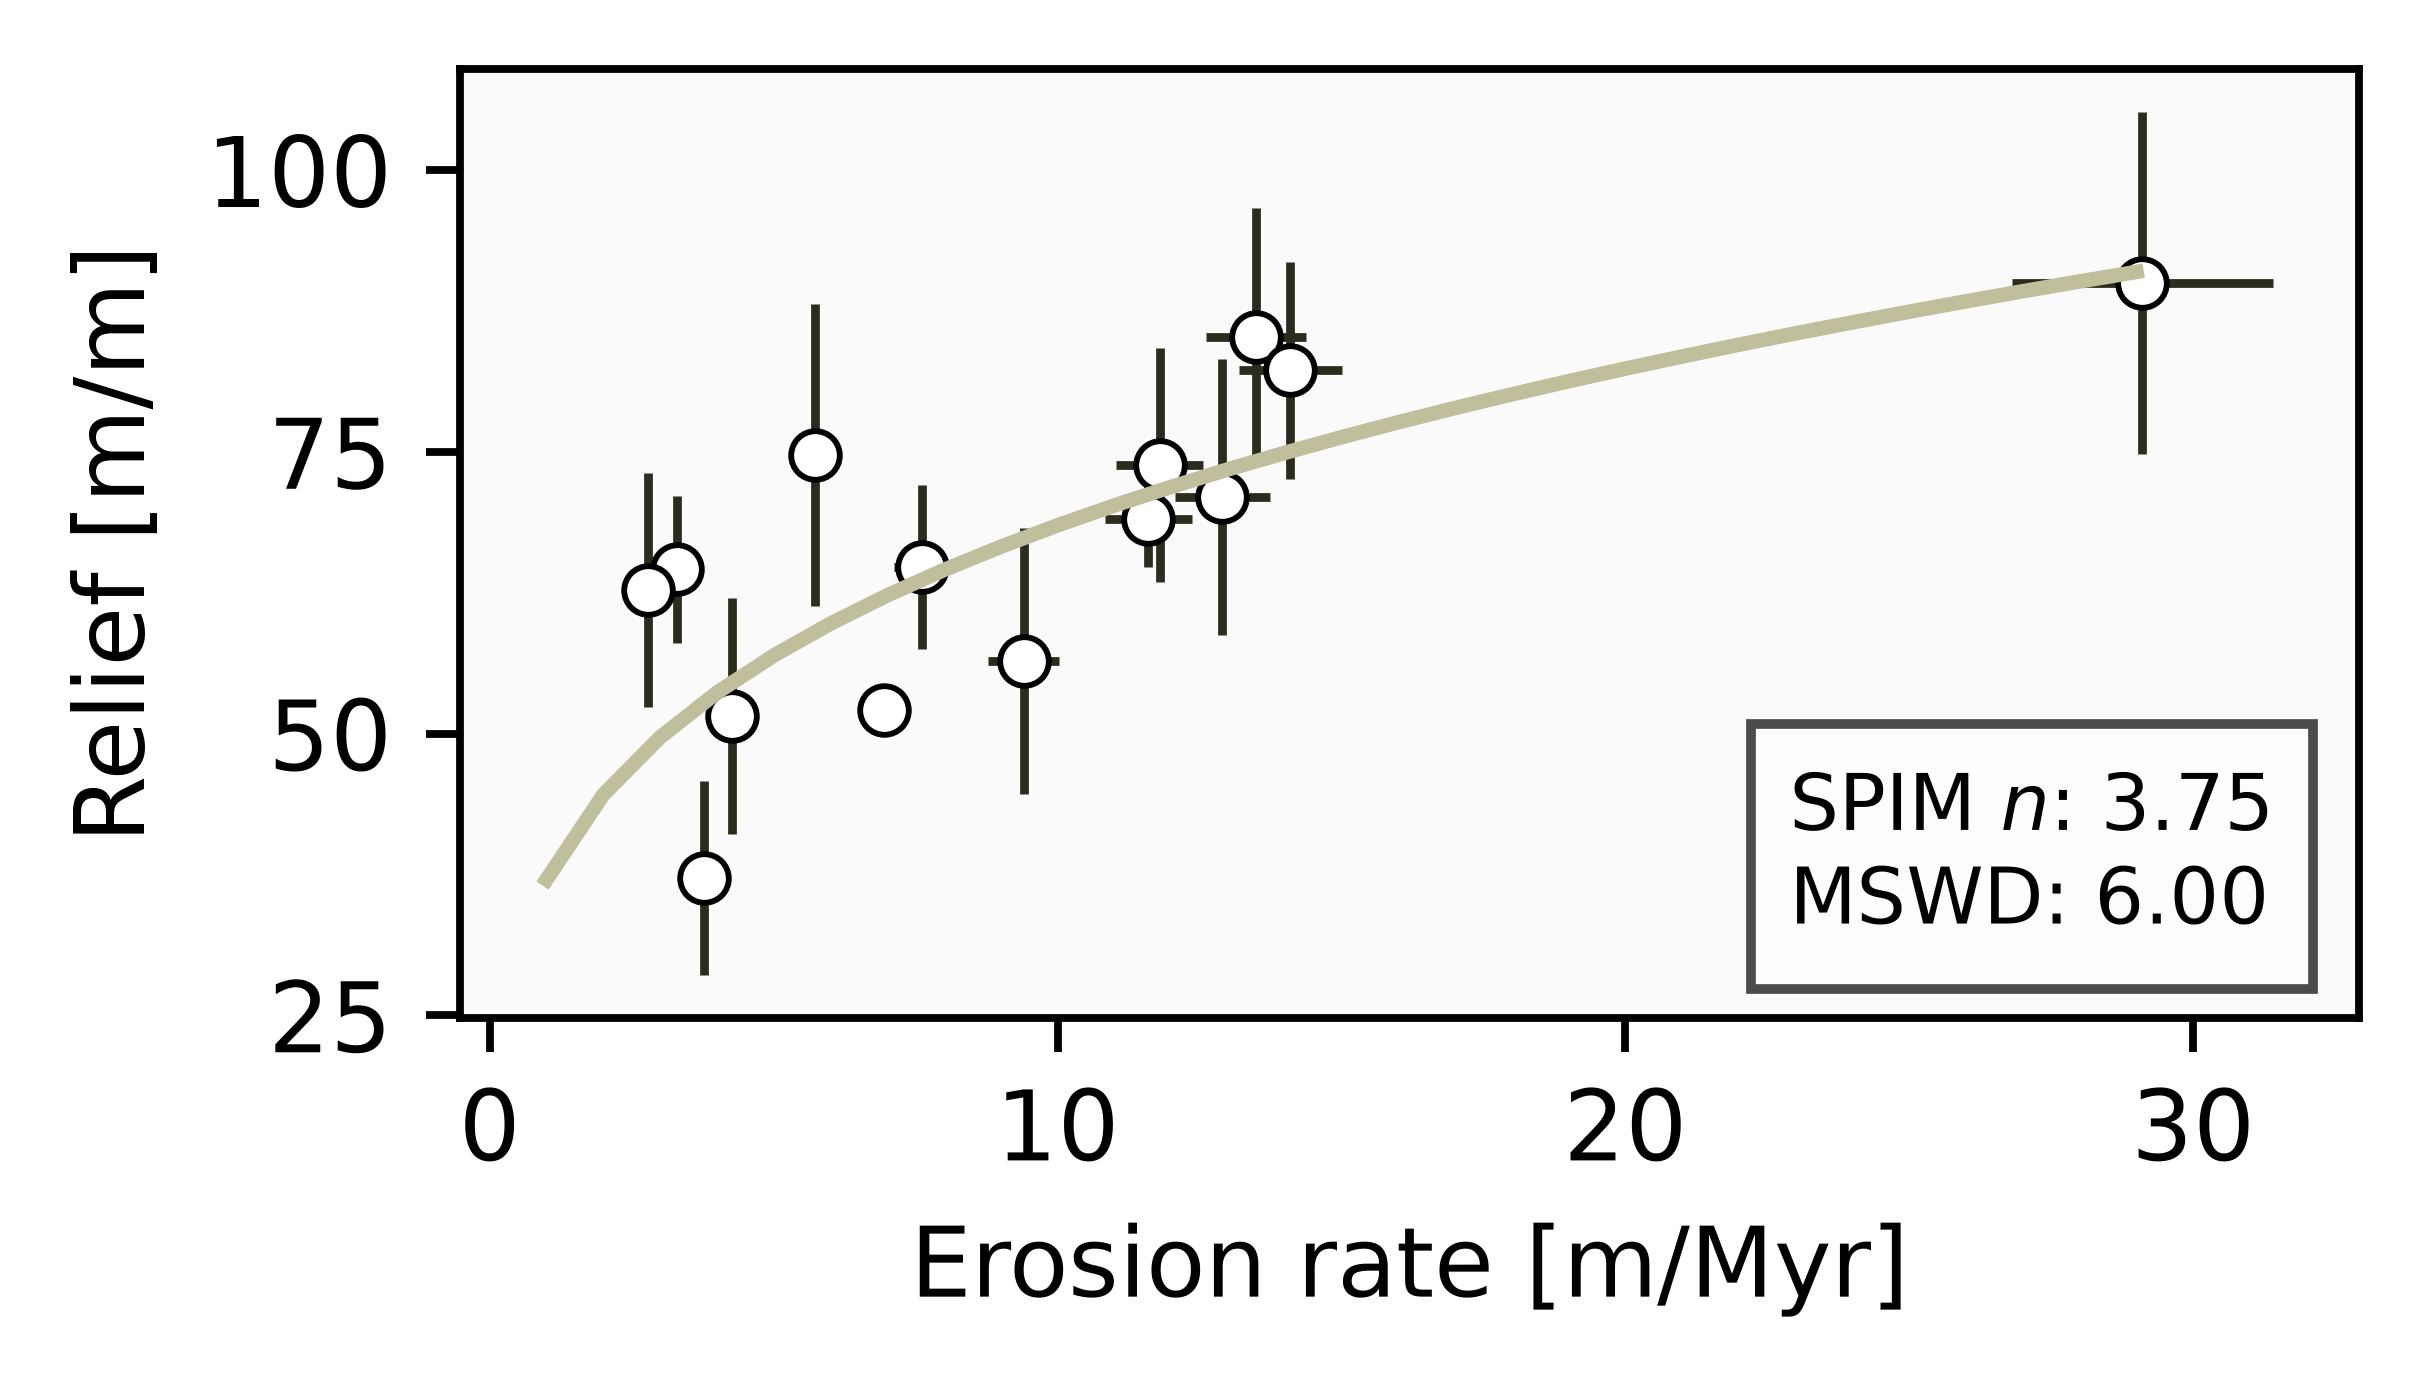
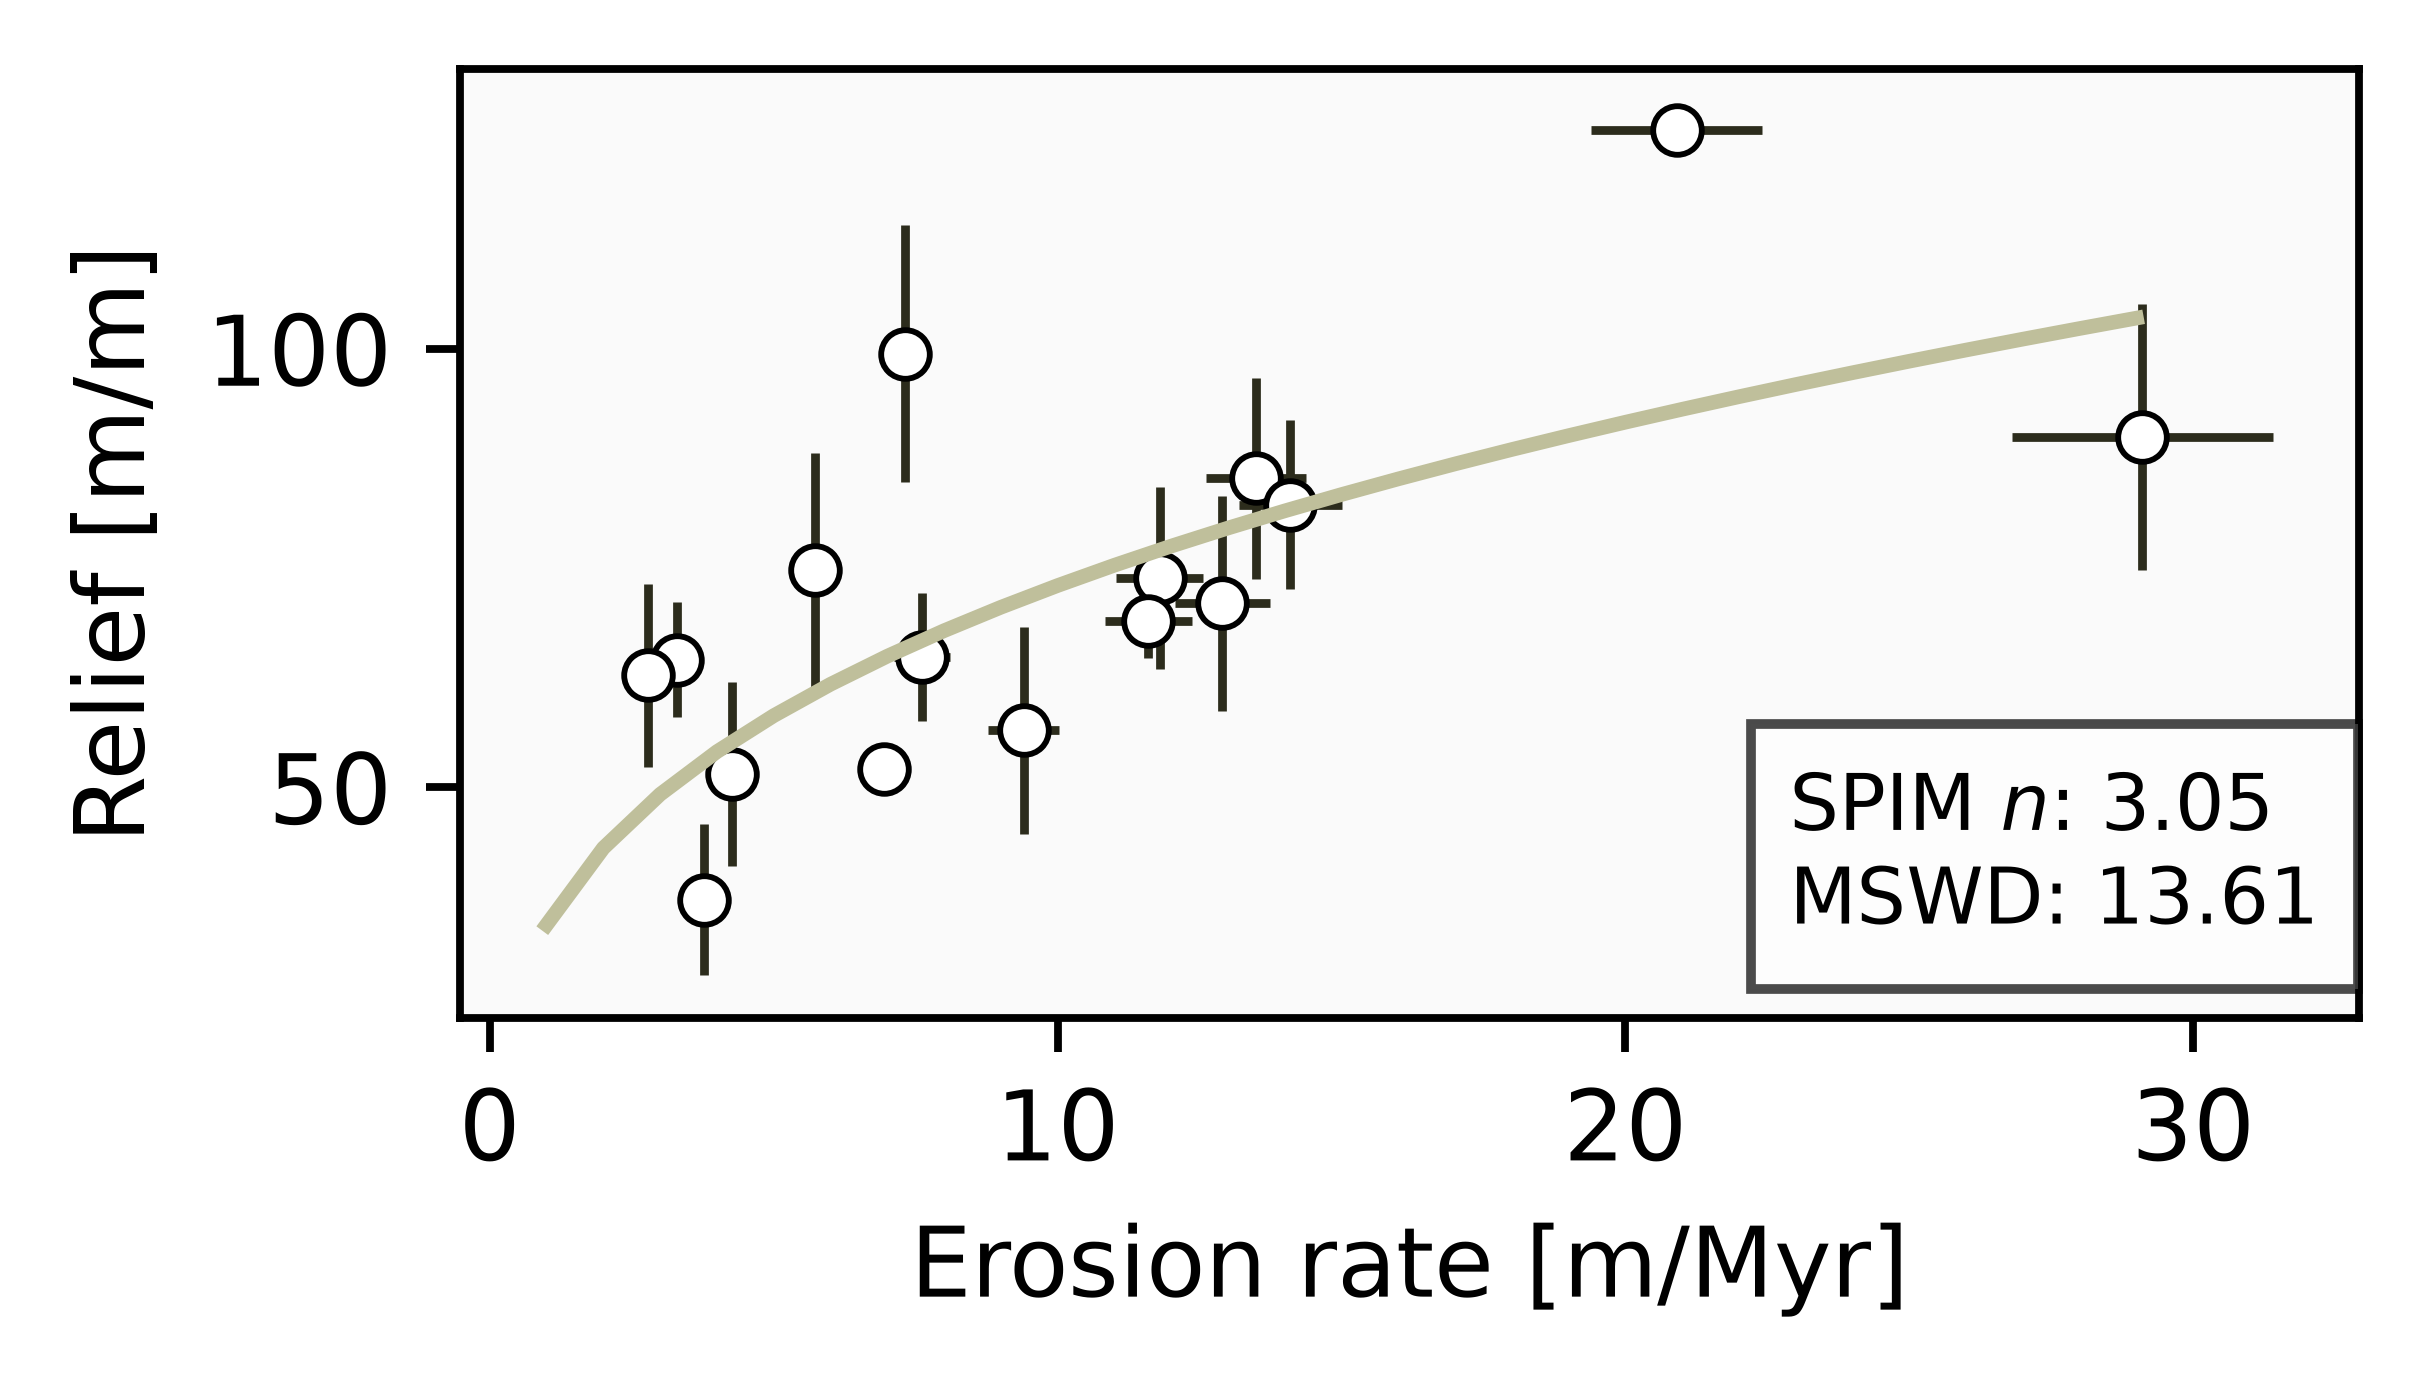
erosion

diff --git a/support/aux_functions/constant_steady_lines_model.py b/support/aux_functions/constant_steady_lines_model.py
@@ -173,15 +173,19 @@ class steady_state_model:
         best_dist = np.inf
 
         for time in times:
+            N_be_series= []
+            N_al_series = []
             for er in many_erosions:
                 N_be = float(c_p.burial_lines_be(er, 1.7, time))
                 N_al = float(c_p.burial_lines_al(er, 1.7, time))
+                N_be_series.append(N_be)
+                N_al_series.append(N_al)
 
-                # Euclidean distance in (N10, N26) space
+            for N_be,N_al in zip(N_be_series,N_al_series):
                 dist = np.sqrt((N_be - measured_N10) ** 2 + (N_al - measured_N26) ** 2)
-
                 if dist < best_dist:
                     best_time = time
+                    best_dist = dist
 
         return best_time
 

diff --git a/generate_figures/scripts/correction_erosion_rates.py b/generate_figures/scripts/correction_erosion_rates.py
@@ -9,8 +9,8 @@ all_sample_names,all_n10,all_n26,all_description_sample = load_dataset()
 for sample_id, measured_N10,measured_N26,description_sample in zip(all_sample_names,all_n10,all_n26,all_description_sample):
     if description_sample == "flood":
         time = bl.burial_decay_time(measured_N10,measured_N26)
-        print(time)
 
-    # corrected_N10 = measured_N10*(math.e**(decay_be*time))
-    # corrected_N26 = measured_N26*(math.e**(decay_al*time))
-#
+        corrected_N10 = measured_N10*(math.e**(decay_be*time))
+        corrected_N26 = measured_N26*(math.e**(decay_al*time))
+
+        print(sample_id,corrected_N10,corrected_N26,time)

diff --git a/generate_figures/scripts/Fig4_york_regression_erosion_rate_ksn_graph.py b/generate_figures/scripts/Fig4_york_regression_erosion_rate_ksn_graph.py
@@ -17,7 +17,7 @@ fig_name = f"Fig4_MCyork_erosion_rate_relief_graph"
 
 data_file = main_path +  "/support/data/topographic_data_ksn_erosion_rf.csv"
 
-remove_samples = ["PP36","BE02"]
+remove_samples = []
 
 df_data = pd.read_csv(data_file)
 re_index = df_data[df_data['labels'].isin(remove_samples)].index
